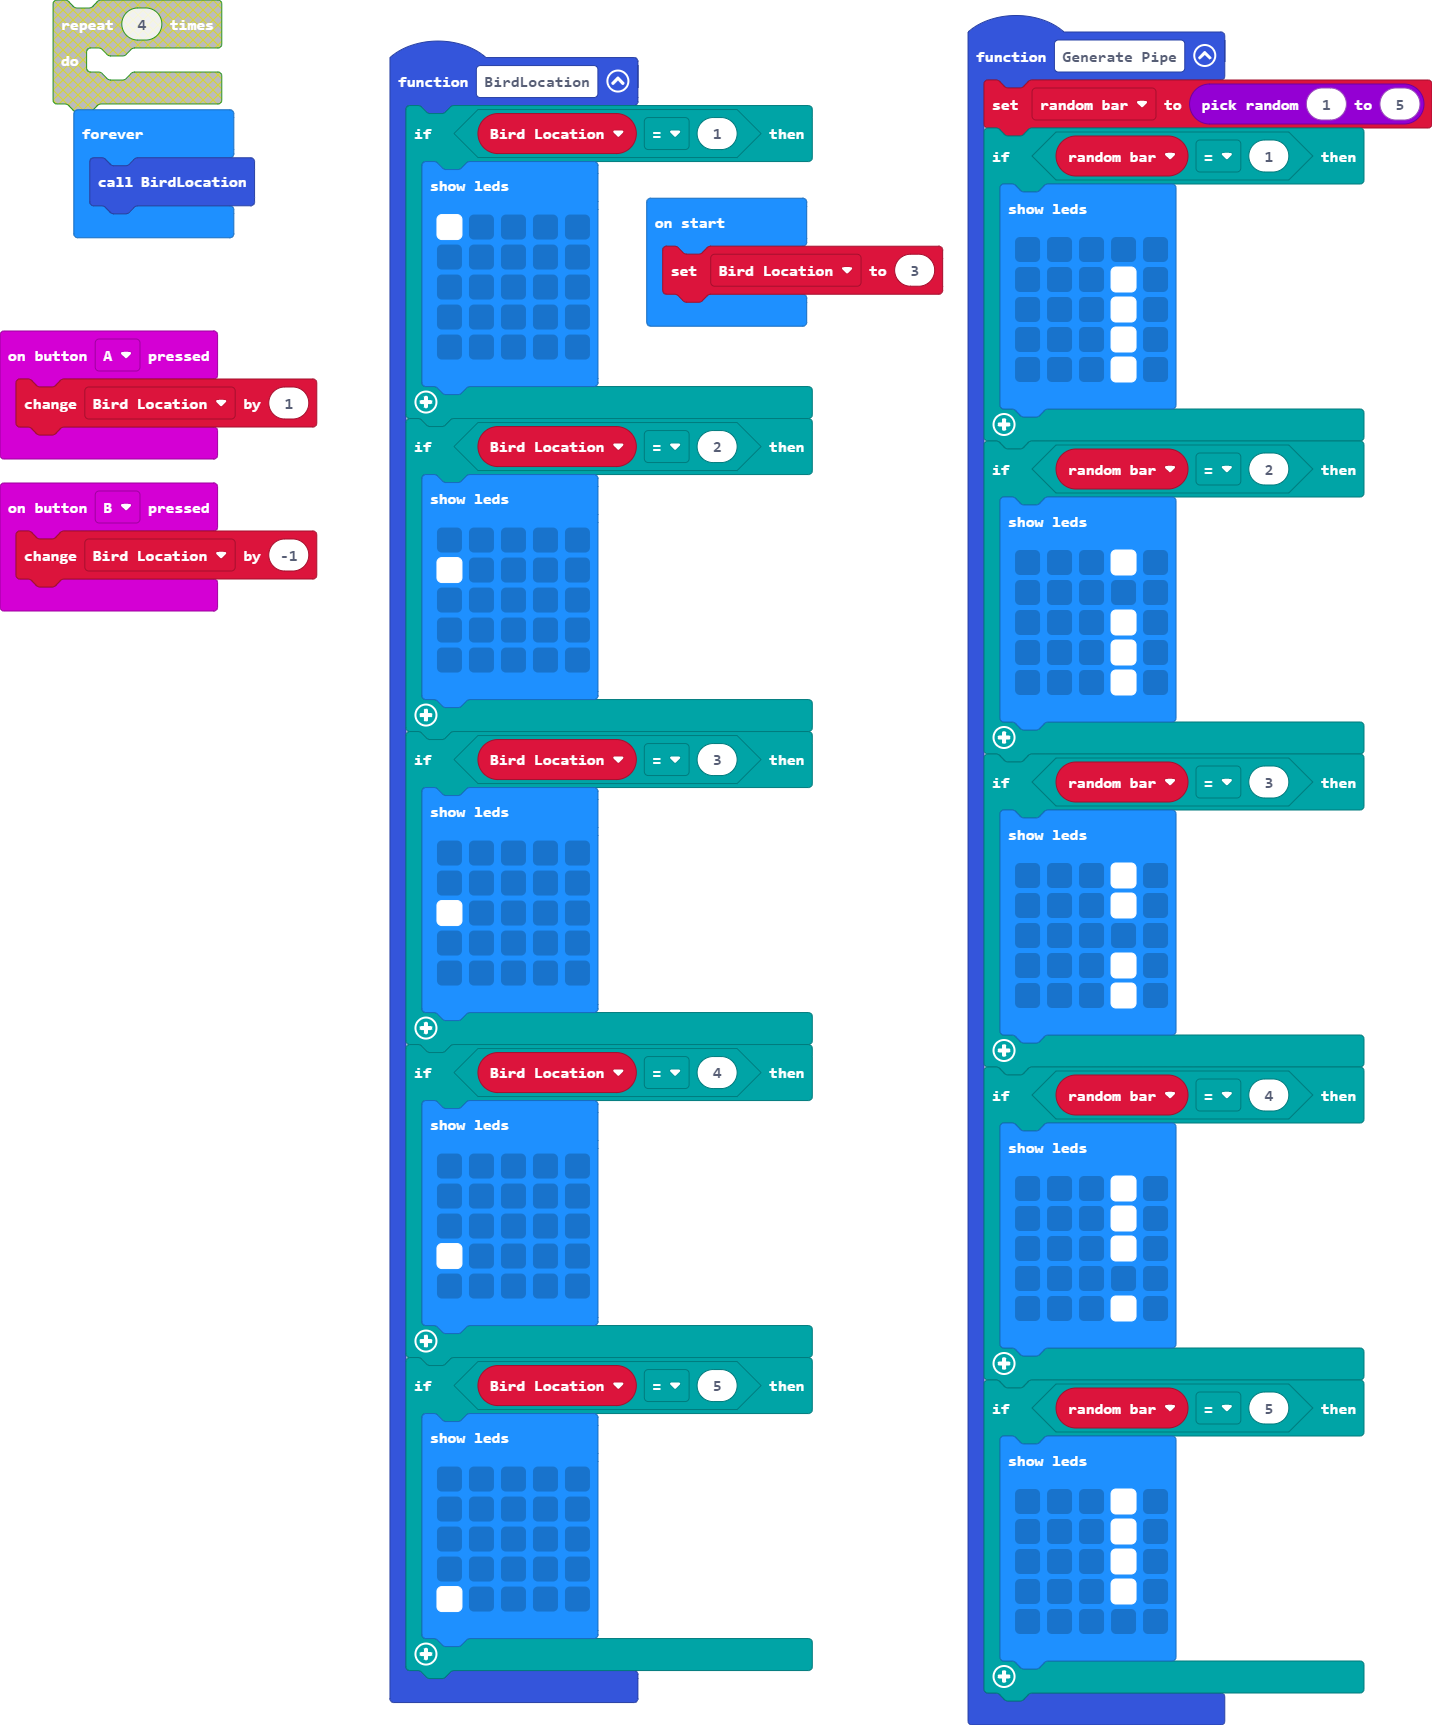
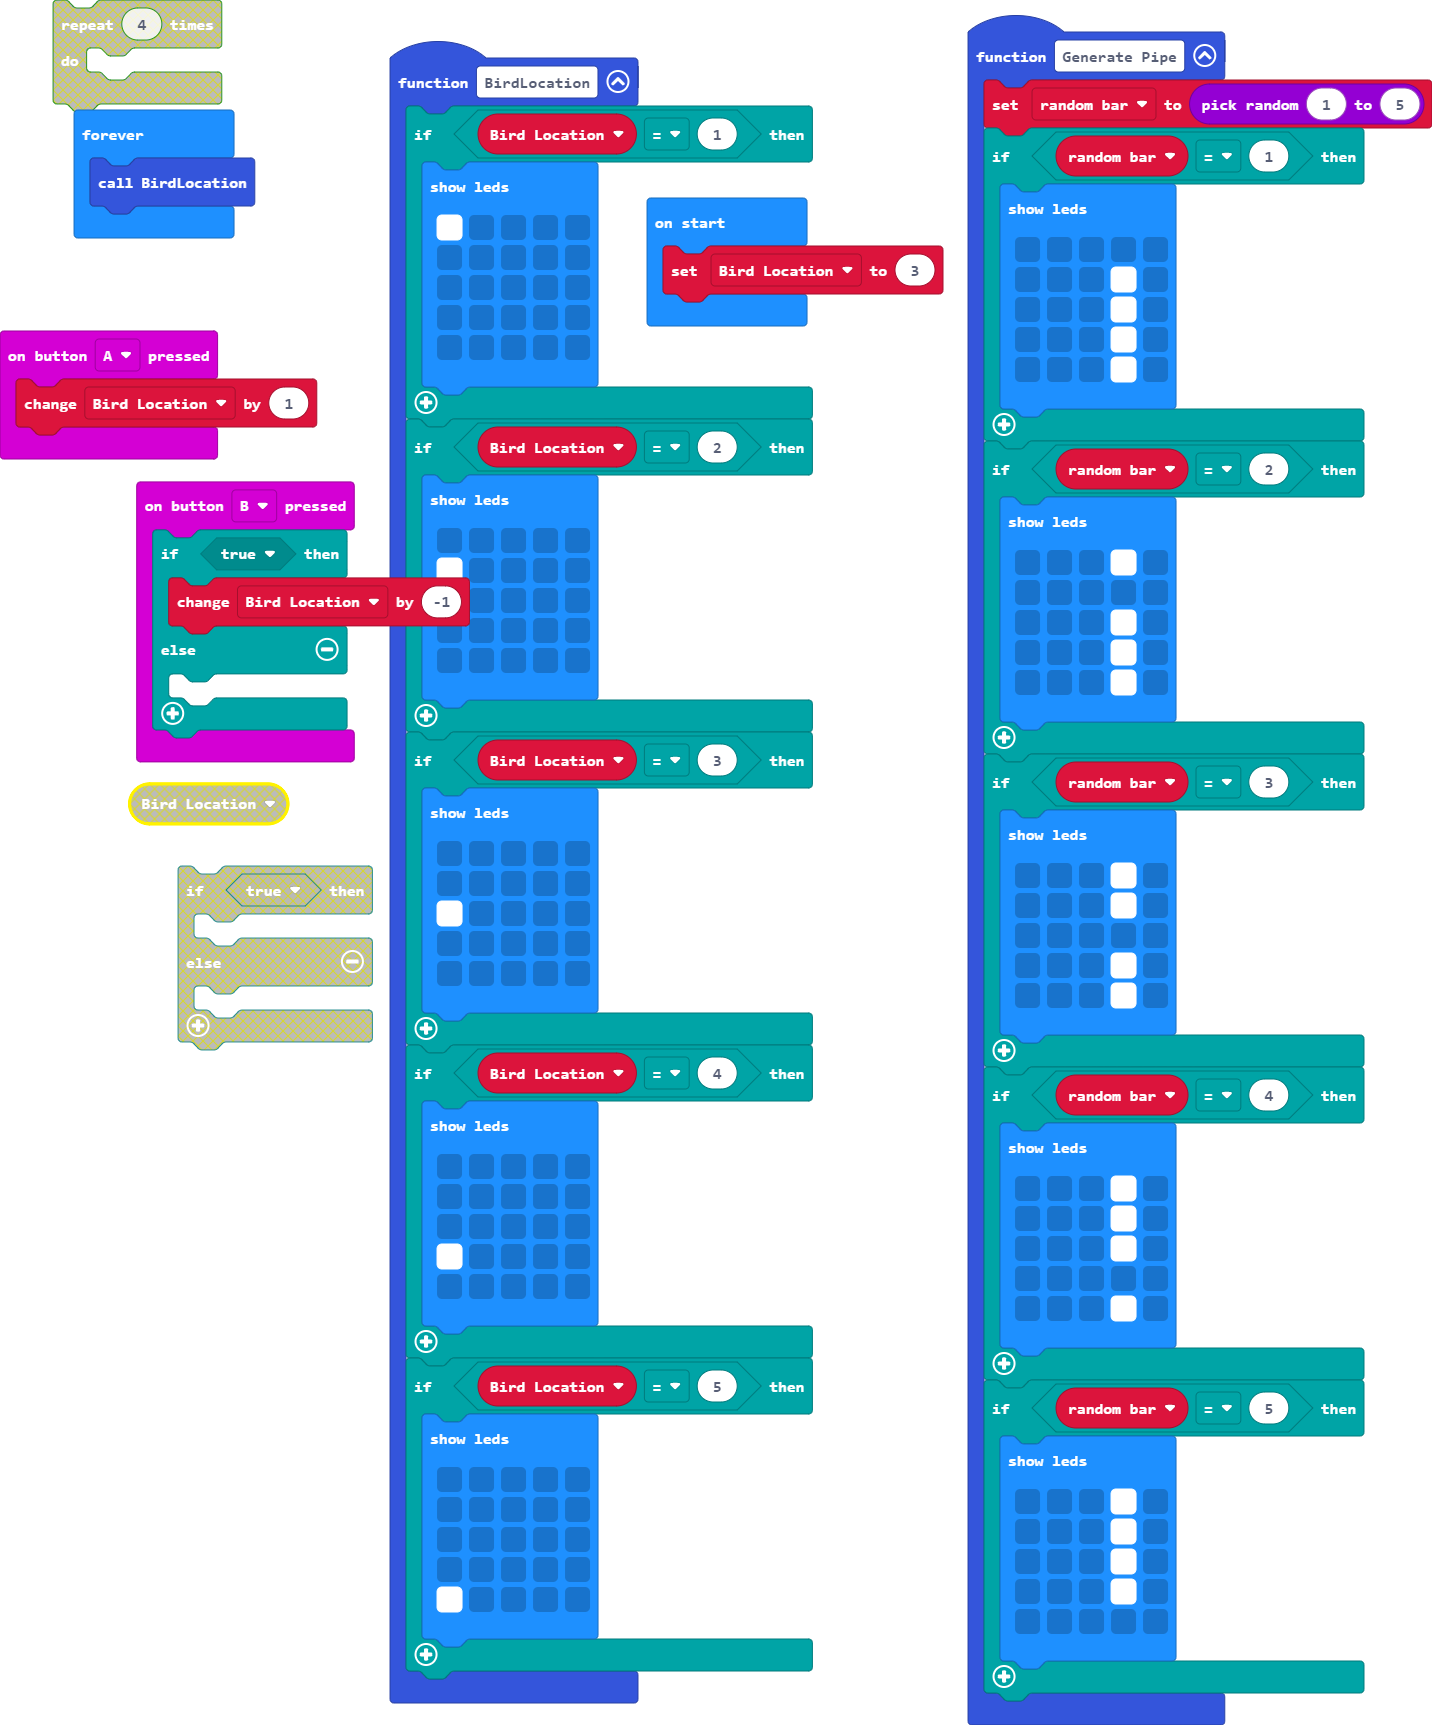
Update main.blocks, main.ts

diff --git a/main.ts b/main.ts
@@ -49,7 +49,11 @@ input.onButtonPressed(Button.A, function () {
     Bird_Location += 1
 })
 input.onButtonPressed(Button.B, function () {
-    Bird_Location += -1
+    if (true) {
+        Bird_Location += -1
+    } else {
+    	
+    }
 })
 function Generate_Pipe () {
     random_bar = randint(1, 5)
